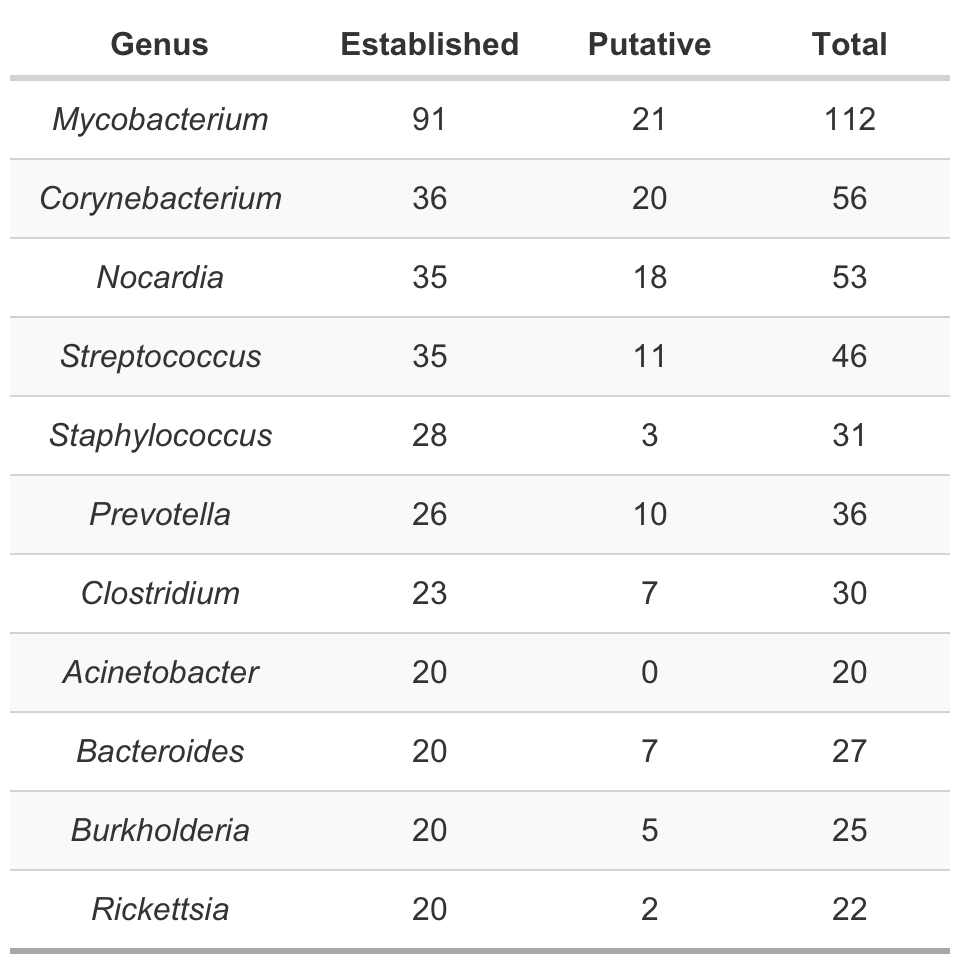
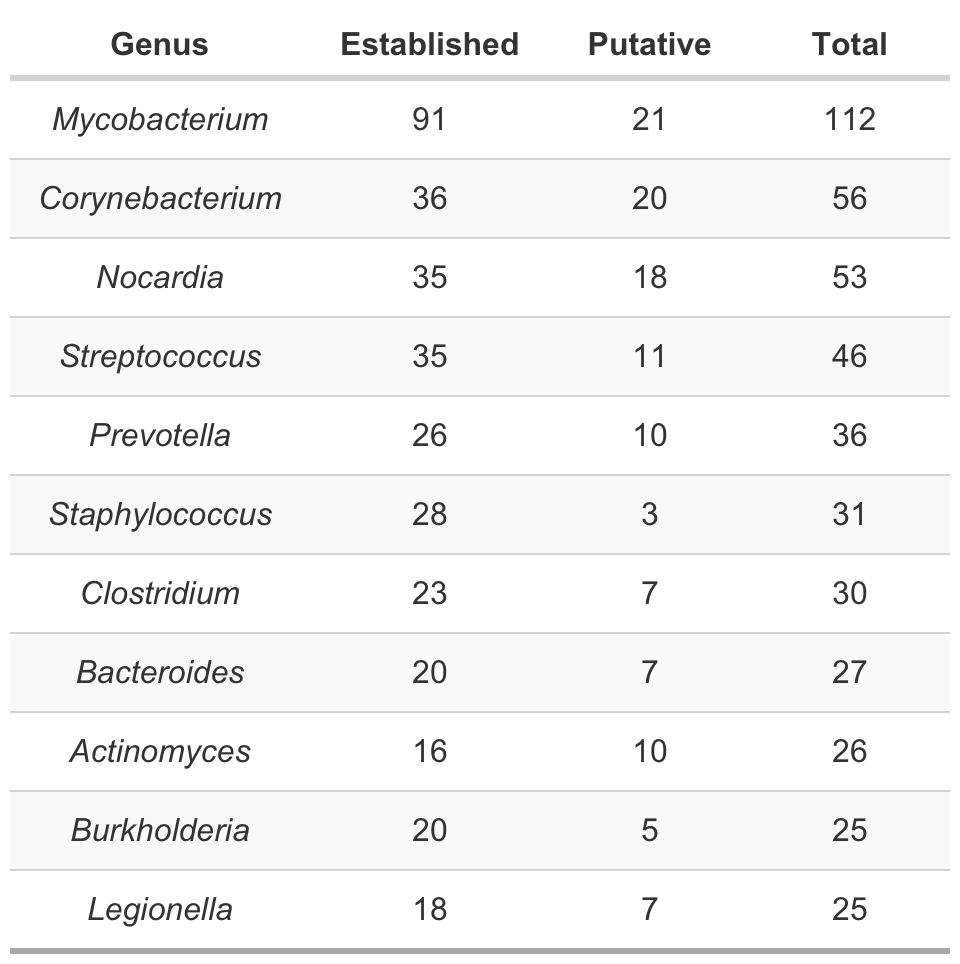
Update GitHub repo

diff --git a/analyses/pathogens_across_taxa.html b/analyses/pathogens_across_taxa.html
@@ -588,7 +588,7 @@ fig3a + fig3b</code></pre>
     spread(., status, n) %&gt;%
     mutate(across(2:3, replace_na, 0), species_total = established +
         putative) %&gt;%
-    slice_max(order_by = established, n = 10) %&gt;%
+    slice_max(order_by = species_total, n = 10) %&gt;%
     dplyr::rename(., Genus = genus, Established = established,
         Putative = putative, Total = species_total)
 
@@ -611,12 +611,12 @@ table1 &lt;- table1 %&gt;%
         locations = cells_body(columns = Genus))
 
 table1  # here is our table</code></pre>
-<div id="mgdiaulyzu" style="overflow-x:auto;overflow-y:auto;width:auto;height:auto;">
+<div id="qjqhmvqcen" style="overflow-x:auto;overflow-y:auto;width:auto;height:auto;">
 <style>html {
   font-family: Arial;
 }
 
-#mgdiaulyzu .gt_table {
+#qjqhmvqcen .gt_table {
   display: table;
   border-collapse: collapse;
   margin-left: auto;
@@ -641,7 +641,7 @@ table1  # here is our table</code></pre>
   border-left-color: #D3D3D3;
 }
 
-#mgdiaulyzu .gt_heading {
+#qjqhmvqcen .gt_heading {
   background-color: #FFFFFF;
   text-align: center;
   border-bottom-color: #FFFFFF;
@@ -653,7 +653,7 @@ table1  # here is our table</code></pre>
   border-right-color: #D3D3D3;
 }
 
-#mgdiaulyzu .gt_title {
+#qjqhmvqcen .gt_title {
   color: #333333;
   font-size: 125%;
   font-weight: initial;
@@ -665,7 +665,7 @@ table1  # here is our table</code></pre>
   border-bottom-width: 0;
 }
 
-#mgdiaulyzu .gt_subtitle {
+#qjqhmvqcen .gt_subtitle {
   color: #333333;
   font-size: 85%;
   font-weight: initial;
@@ -677,13 +677,13 @@ table1  # here is our table</code></pre>
   border-top-width: 0;
 }
 
-#mgdiaulyzu .gt_bottom_border {
+#qjqhmvqcen .gt_bottom_border {
   border-bottom-style: solid;
   border-bottom-width: 2px;
   border-bottom-color: #D3D3D3;
 }
 
-#mgdiaulyzu .gt_col_headings {
+#qjqhmvqcen .gt_col_headings {
   border-top-style: solid;
   border-top-width: 3px;
   border-top-color: #FFFFFF;
@@ -698,7 +698,7 @@ table1  # here is our table</code></pre>
   border-right-color: #D3D3D3;
 }
 
-#mgdiaulyzu .gt_col_heading {
+#qjqhmvqcen .gt_col_heading {
   color: #333333;
   background-color: #FFFFFF;
   font-size: 100%;
@@ -718,7 +718,7 @@ table1  # here is our table</code></pre>
   overflow-x: hidden;
 }
 
-#mgdiaulyzu .gt_column_spanner_outer {
+#qjqhmvqcen .gt_column_spanner_outer {
   color: #333333;
   background-color: #FFFFFF;
   font-size: 100%;
@@ -730,15 +730,15 @@ table1  # here is our table</code></pre>
   padding-right: 4px;
 }
 
-#mgdiaulyzu .gt_column_spanner_outer:first-child {
+#qjqhmvqcen .gt_column_spanner_outer:first-child {
   padding-left: 0;
 }
 
-#mgdiaulyzu .gt_column_spanner_outer:last-child {
+#qjqhmvqcen .gt_column_spanner_outer:last-child {
   padding-right: 0;
 }
 
-#mgdiaulyzu .gt_column_spanner {
+#qjqhmvqcen .gt_column_spanner {
   border-bottom-style: solid;
   border-bottom-width: 3px;
   border-bottom-color: #D3D3D3;
@@ -750,7 +750,7 @@ table1  # here is our table</code></pre>
   width: 100%;
 }
 
-#mgdiaulyzu .gt_group_heading {
+#qjqhmvqcen .gt_group_heading {
   padding-top: 8px;
   padding-bottom: 8px;
   padding-left: 5px;
@@ -775,7 +775,7 @@ table1  # here is our table</code></pre>
   vertical-align: middle;
 }
 
-#mgdiaulyzu .gt_empty_group_heading {
+#qjqhmvqcen .gt_empty_group_heading {
   padding: 0.5px;
   color: #333333;
   background-color: #FFFFFF;
@@ -790,15 +790,15 @@ table1  # here is our table</code></pre>
   vertical-align: middle;
 }
 
-#mgdiaulyzu .gt_from_md > :first-child {
+#qjqhmvqcen .gt_from_md > :first-child {
   margin-top: 0;
 }
 
-#mgdiaulyzu .gt_from_md > :last-child {
+#qjqhmvqcen .gt_from_md > :last-child {
   margin-bottom: 0;
 }
 
-#mgdiaulyzu .gt_row {
+#qjqhmvqcen .gt_row {
   padding-top: 10px;
   padding-bottom: 10px;
   padding-left: 5px;
@@ -817,7 +817,7 @@ table1  # here is our table</code></pre>
   overflow-x: hidden;
 }
 
-#mgdiaulyzu .gt_stub {
+#qjqhmvqcen .gt_stub {
   color: #333333;
   background-color: #FFFFFF;
   font-size: 100%;
@@ -830,7 +830,7 @@ table1  # here is our table</code></pre>
   padding-right: 5px;
 }
 
-#mgdiaulyzu .gt_stub_row_group {
+#qjqhmvqcen .gt_stub_row_group {
   color: #333333;
   background-color: #FFFFFF;
   font-size: 100%;
@@ -844,11 +844,11 @@ table1  # here is our table</code></pre>
   vertical-align: top;
 }
 
-#mgdiaulyzu .gt_row_group_first td {
+#qjqhmvqcen .gt_row_group_first td {
   border-top-width: 2px;
 }
 
-#mgdiaulyzu .gt_summary_row {
+#qjqhmvqcen .gt_summary_row {
   color: #333333;
   background-color: #FFFFFF;
   text-transform: inherit;
@@ -858,16 +858,16 @@ table1  # here is our table</code></pre>
   padding-right: 5px;
 }
 
-#mgdiaulyzu .gt_first_summary_row {
+#qjqhmvqcen .gt_first_summary_row {
   border-top-style: solid;
   border-top-color: #D3D3D3;
 }
 
-#mgdiaulyzu .gt_first_summary_row.thick {
+#qjqhmvqcen .gt_first_summary_row.thick {
   border-top-width: 2px;
 }
 
-#mgdiaulyzu .gt_last_summary_row {
+#qjqhmvqcen .gt_last_summary_row {
   padding-top: 8px;
   padding-bottom: 8px;
   padding-left: 5px;
@@ -877,7 +877,7 @@ table1  # here is our table</code></pre>
   border-bottom-color: #D3D3D3;
 }
 
-#mgdiaulyzu .gt_grand_summary_row {
+#qjqhmvqcen .gt_grand_summary_row {
   color: #333333;
   background-color: #FFFFFF;
   text-transform: inherit;
@@ -887,7 +887,7 @@ table1  # here is our table</code></pre>
   padding-right: 5px;
 }
 
-#mgdiaulyzu .gt_first_grand_summary_row {
+#qjqhmvqcen .gt_first_grand_summary_row {
   padding-top: 8px;
   padding-bottom: 8px;
   padding-left: 5px;
@@ -897,11 +897,11 @@ table1  # here is our table</code></pre>
   border-top-color: #D3D3D3;
 }
 
-#mgdiaulyzu .gt_striped {
+#qjqhmvqcen .gt_striped {
   background-color: rgba(128, 128, 128, 0.05);
 }
 
-#mgdiaulyzu .gt_table_body {
+#qjqhmvqcen .gt_table_body {
   border-top-style: solid;
   border-top-width: 2px;
   border-top-color: #D3D3D3;
@@ -910,7 +910,7 @@ table1  # here is our table</code></pre>
   border-bottom-color: #D3D3D3;
 }
 
-#mgdiaulyzu .gt_footnotes {
+#qjqhmvqcen .gt_footnotes {
   color: #333333;
   background-color: #FFFFFF;
   border-bottom-style: none;
@@ -924,7 +924,7 @@ table1  # here is our table</code></pre>
   border-right-color: #D3D3D3;
 }
 
-#mgdiaulyzu .gt_footnote {
+#qjqhmvqcen .gt_footnote {
   margin: 0px;
   font-size: 90%;
   padding-left: 4px;
@@ -933,7 +933,7 @@ table1  # here is our table</code></pre>
   padding-right: 5px;
 }
 
-#mgdiaulyzu .gt_sourcenotes {
+#qjqhmvqcen .gt_sourcenotes {
   color: #333333;
   background-color: #FFFFFF;
   border-bottom-style: none;
@@ -947,7 +947,7 @@ table1  # here is our table</code></pre>
   border-right-color: #D3D3D3;
 }
 
-#mgdiaulyzu .gt_sourcenote {
+#qjqhmvqcen .gt_sourcenote {
   font-size: 90%;
   padding-top: 4px;
   padding-bottom: 4px;
@@ -955,36 +955,36 @@ table1  # here is our table</code></pre>
   padding-right: 5px;
 }
 
-#mgdiaulyzu .gt_left {
+#qjqhmvqcen .gt_left {
   text-align: left;
 }
 
-#mgdiaulyzu .gt_center {
+#qjqhmvqcen .gt_center {
   text-align: center;
 }
 
-#mgdiaulyzu .gt_right {
+#qjqhmvqcen .gt_right {
   text-align: right;
   font-variant-numeric: tabular-nums;
 }
 
-#mgdiaulyzu .gt_font_normal {
+#qjqhmvqcen .gt_font_normal {
   font-weight: normal;
 }
 
-#mgdiaulyzu .gt_font_bold {
+#qjqhmvqcen .gt_font_bold {
   font-weight: bold;
 }
 
-#mgdiaulyzu .gt_font_italic {
+#qjqhmvqcen .gt_font_italic {
   font-style: italic;
 }
 
-#mgdiaulyzu .gt_super {
+#qjqhmvqcen .gt_super {
   font-size: 65%;
 }
 
-#mgdiaulyzu .gt_two_val_uncert {
+#qjqhmvqcen .gt_two_val_uncert {
   display: inline-block;
   line-height: 1em;
   text-align: right;
@@ -993,31 +993,31 @@ table1  # here is our table</code></pre>
   margin-left: 0.1em;
 }
 
-#mgdiaulyzu .gt_footnote_marks {
+#qjqhmvqcen .gt_footnote_marks {
   font-style: italic;
   font-weight: normal;
   font-size: 75%;
   vertical-align: 0.4em;
 }
 
-#mgdiaulyzu .gt_asterisk {
+#qjqhmvqcen .gt_asterisk {
   font-size: 100%;
   vertical-align: 0;
 }
 
-#mgdiaulyzu .gt_slash_mark {
+#qjqhmvqcen .gt_slash_mark {
   font-size: 0.7em;
   line-height: 0.7em;
   vertical-align: 0.15em;
 }
 
-#mgdiaulyzu .gt_fraction_numerator {
+#qjqhmvqcen .gt_fraction_numerator {
   font-size: 0.6em;
   line-height: 0.6em;
   vertical-align: 0.45em;
 }
 
-#mgdiaulyzu .gt_fraction_denominator {
+#qjqhmvqcen .gt_fraction_denominator {
   font-size: 0.6em;
   line-height: 0.6em;
   vertical-align: -0.05em;
@@ -1056,34 +1056,34 @@ table1  # here is our table</code></pre>
 <td class="gt_row gt_center gt_striped">35</td>
 <td class="gt_row gt_center gt_striped">11</td>
 <td class="gt_row gt_center gt_striped">46</td></tr>
-    <tr><td class="gt_row gt_center" style="font-style: italic;">Staphylococcus</td>
-<td class="gt_row gt_center">28</td>
-<td class="gt_row gt_center">3</td>
-<td class="gt_row gt_center">31</td></tr>
-    <tr><td class="gt_row gt_center gt_striped" style="font-style: italic;">Prevotella</td>
-<td class="gt_row gt_center gt_striped">26</td>
-<td class="gt_row gt_center gt_striped">10</td>
-<td class="gt_row gt_center gt_striped">36</td></tr>
+    <tr><td class="gt_row gt_center" style="font-style: italic;">Prevotella</td>
+<td class="gt_row gt_center">26</td>
+<td class="gt_row gt_center">10</td>
+<td class="gt_row gt_center">36</td></tr>
+    <tr><td class="gt_row gt_center gt_striped" style="font-style: italic;">Staphylococcus</td>
+<td class="gt_row gt_center gt_striped">28</td>
+<td class="gt_row gt_center gt_striped">3</td>
+<td class="gt_row gt_center gt_striped">31</td></tr>
     <tr><td class="gt_row gt_center" style="font-style: italic;">Clostridium</td>
 <td class="gt_row gt_center">23</td>
 <td class="gt_row gt_center">7</td>
 <td class="gt_row gt_center">30</td></tr>
-    <tr><td class="gt_row gt_center gt_striped" style="font-style: italic;">Acinetobacter</td>
+    <tr><td class="gt_row gt_center gt_striped" style="font-style: italic;">Bacteroides</td>
 <td class="gt_row gt_center gt_striped">20</td>
-<td class="gt_row gt_center gt_striped">0</td>
-<td class="gt_row gt_center gt_striped">20</td></tr>
-    <tr><td class="gt_row gt_center" style="font-style: italic;">Bacteroides</td>
-<td class="gt_row gt_center">20</td>
-<td class="gt_row gt_center">7</td>
-<td class="gt_row gt_center">27</td></tr>
+<td class="gt_row gt_center gt_striped">7</td>
+<td class="gt_row gt_center gt_striped">27</td></tr>
+    <tr><td class="gt_row gt_center" style="font-style: italic;">Actinomyces</td>
+<td class="gt_row gt_center">16</td>
+<td class="gt_row gt_center">10</td>
+<td class="gt_row gt_center">26</td></tr>
     <tr><td class="gt_row gt_center gt_striped" style="font-style: italic;">Burkholderia</td>
 <td class="gt_row gt_center gt_striped">20</td>
 <td class="gt_row gt_center gt_striped">5</td>
 <td class="gt_row gt_center gt_striped">25</td></tr>
-    <tr><td class="gt_row gt_center" style="font-style: italic;">Rickettsia</td>
-<td class="gt_row gt_center">20</td>
-<td class="gt_row gt_center">2</td>
-<td class="gt_row gt_center">22</td></tr>
+    <tr><td class="gt_row gt_center" style="font-style: italic;">Legionella</td>
+<td class="gt_row gt_center">18</td>
+<td class="gt_row gt_center">7</td>
+<td class="gt_row gt_center">25</td></tr>
   </tbody>
   
   
